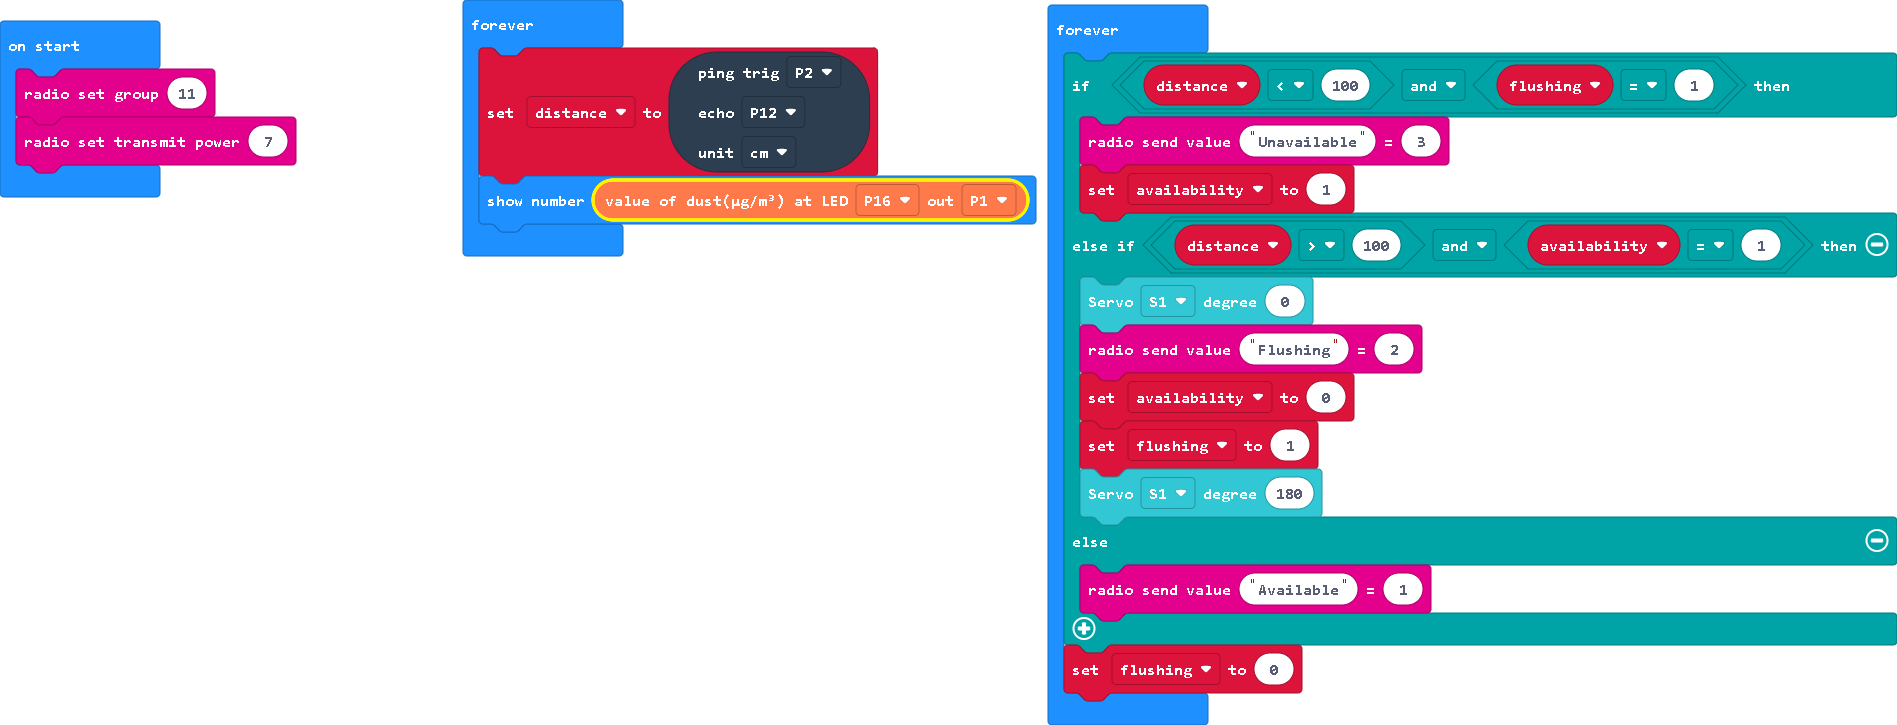
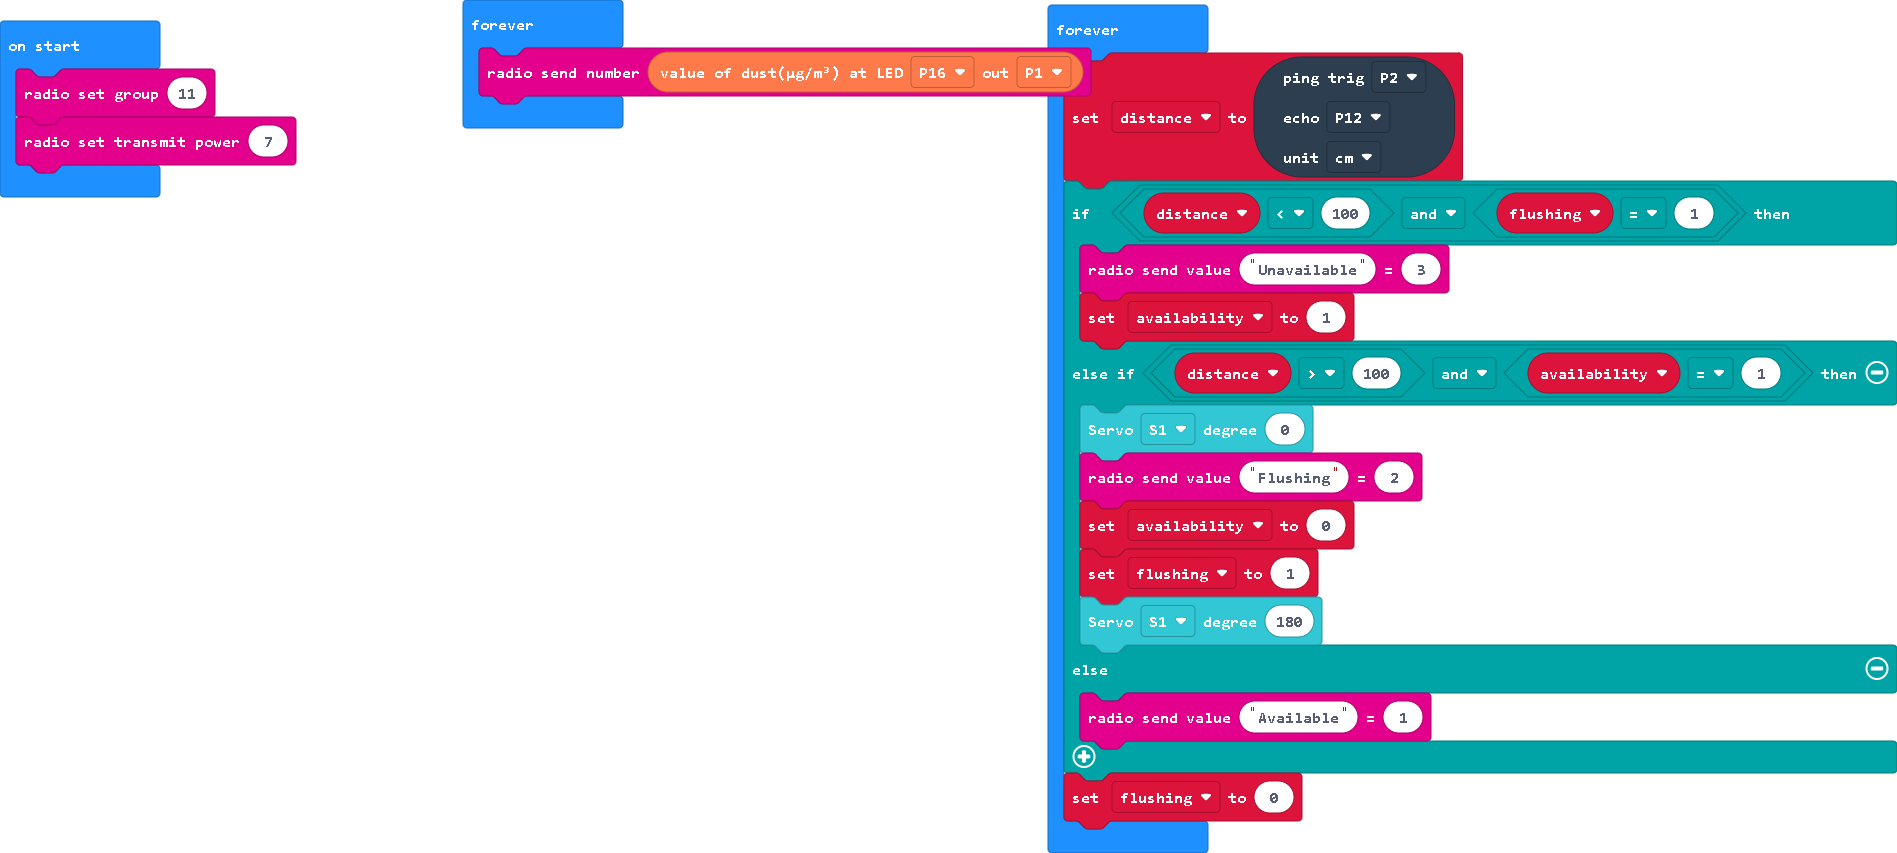
Update main.blocks, main.ts

diff --git a/main.ts b/main.ts
@@ -4,14 +4,14 @@ let distance = 0
 radio.setGroup(11)
 radio.setTransmitPower(7)
 basic.forever(function () {
+    radio.sendNumber(Environment.ReadDust(DigitalPin.P16, AnalogPin.P1))
+})
+basic.forever(function () {
     distance = sonar.ping(
     DigitalPin.P2,
     DigitalPin.P12,
     PingUnit.Centimeters
     )
-    basic.showNumber(Environment.ReadDust(DigitalPin.P16, AnalogPin.P1))
-})
-basic.forever(function () {
     if (distance < 100 && flushing == 1) {
         radio.sendValue("Unavailable", 3)
         availability = 1
